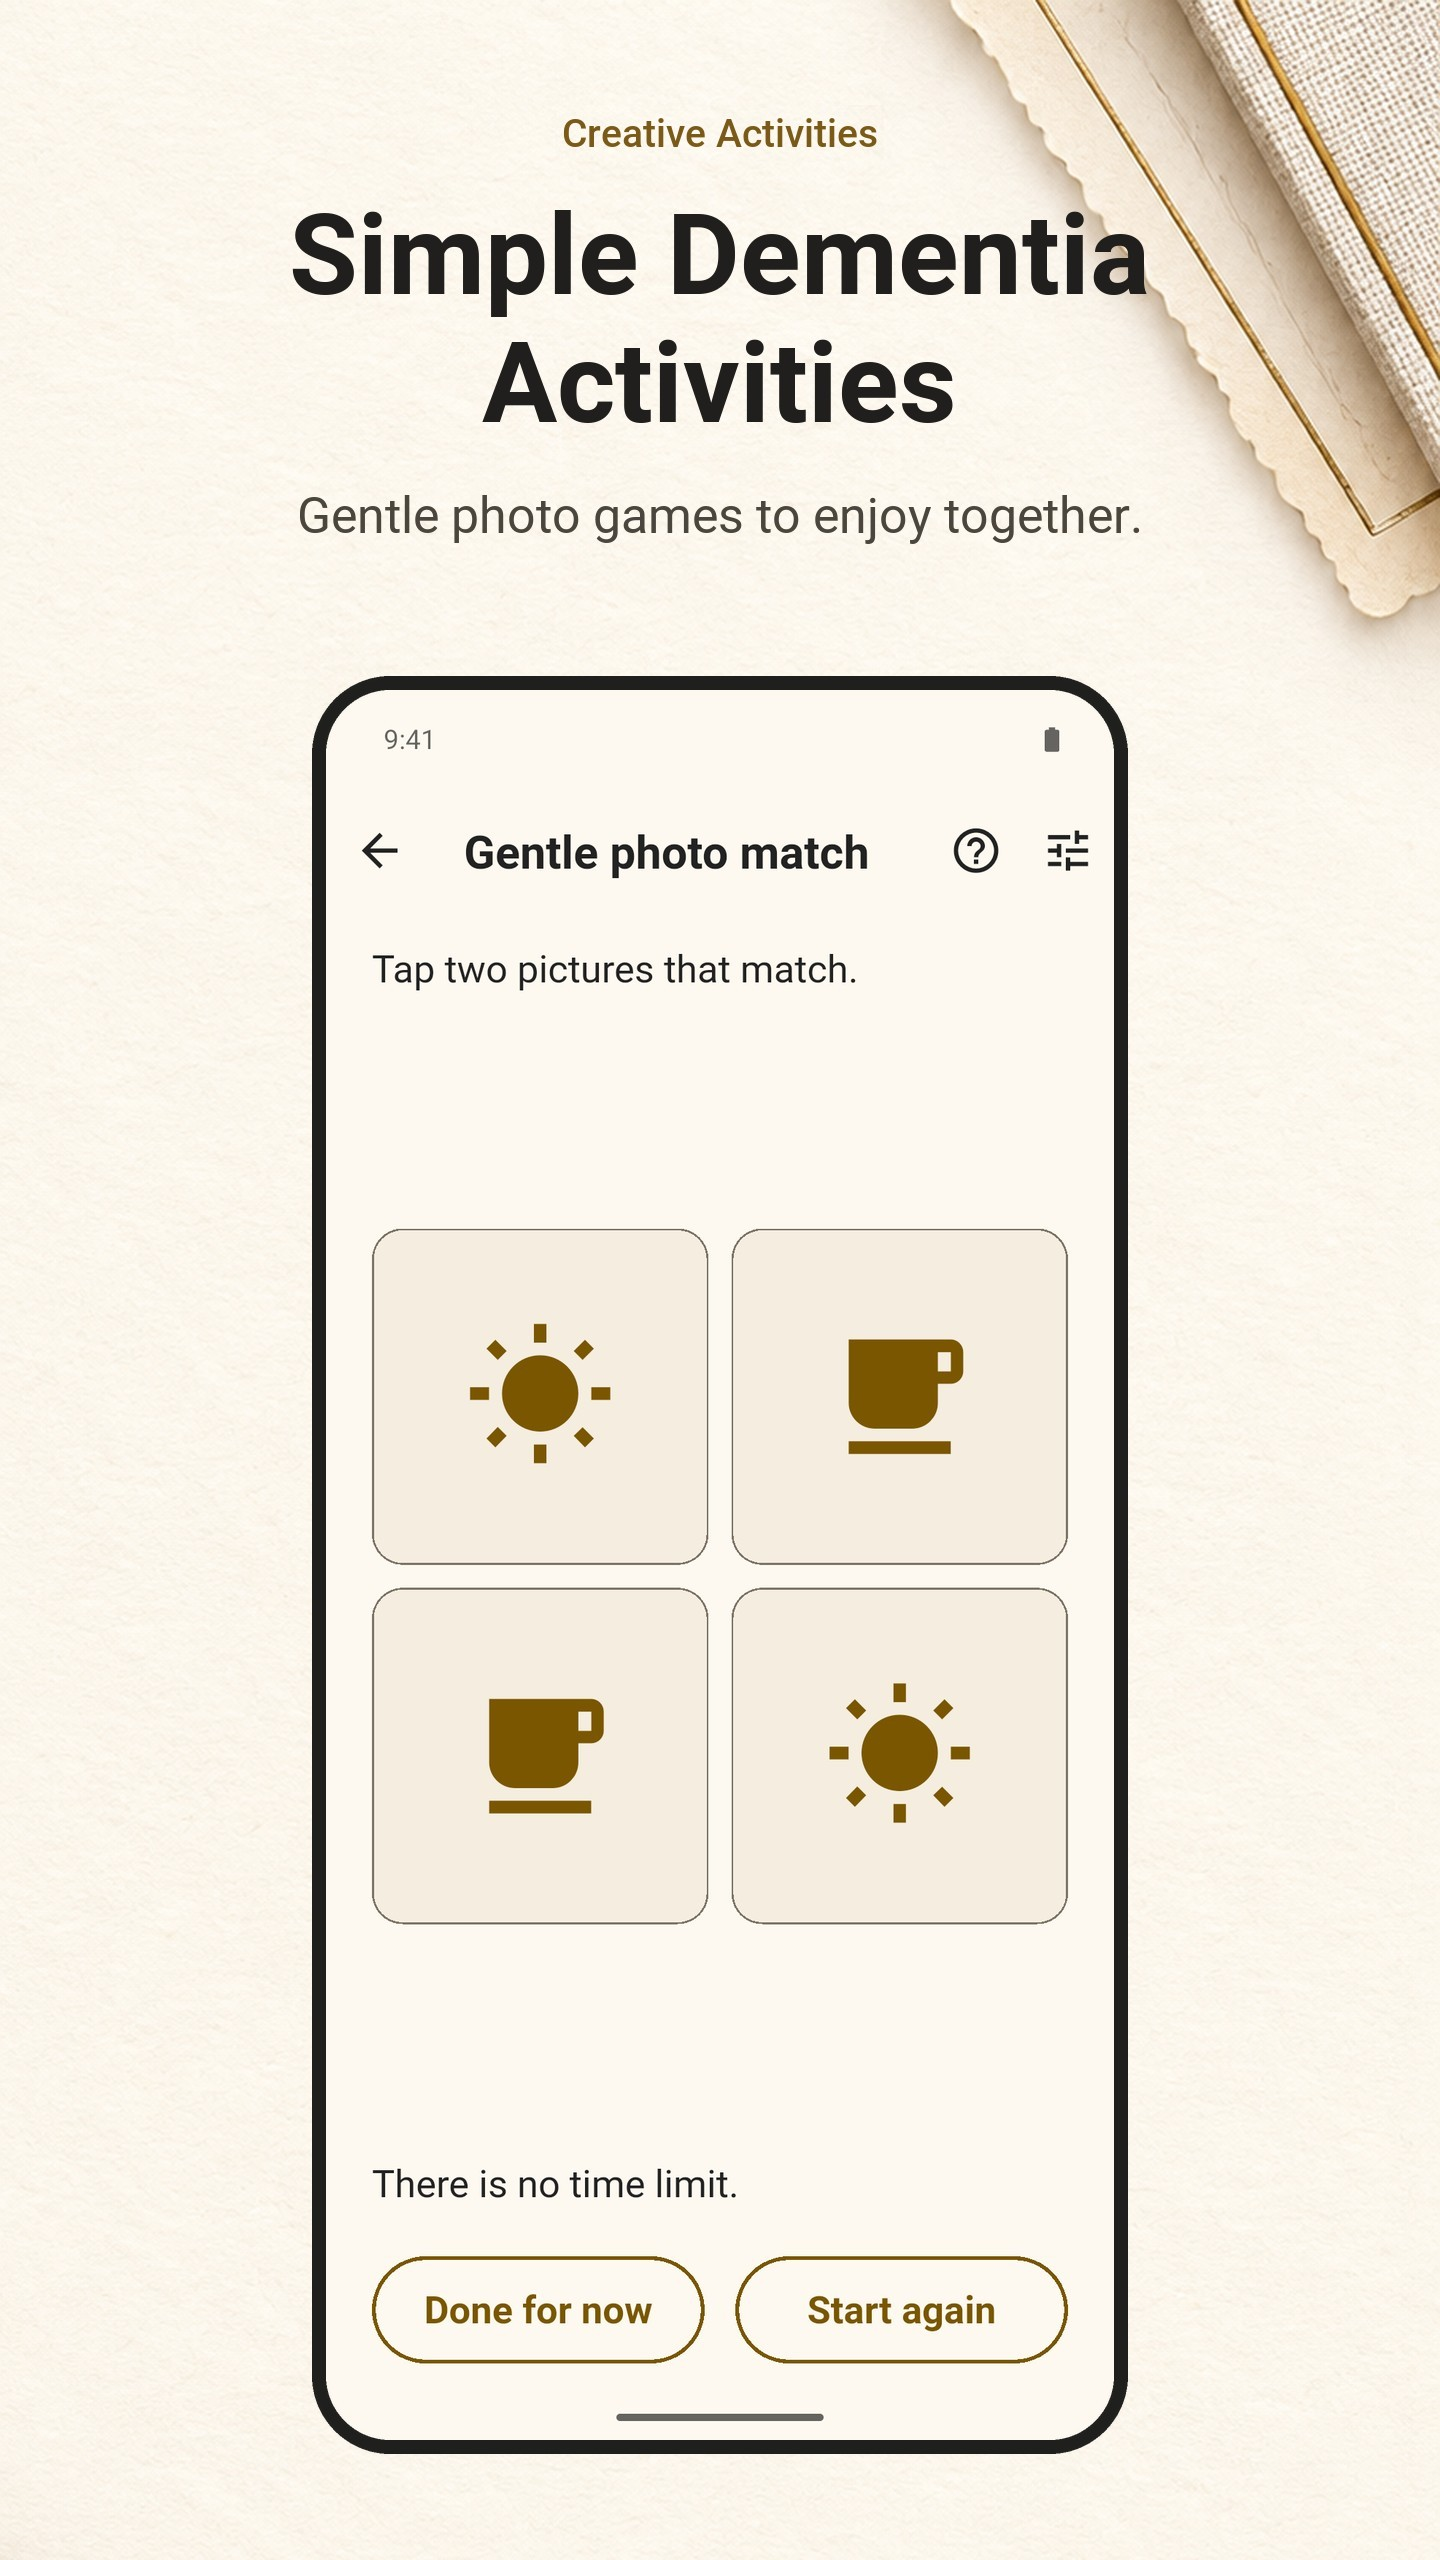
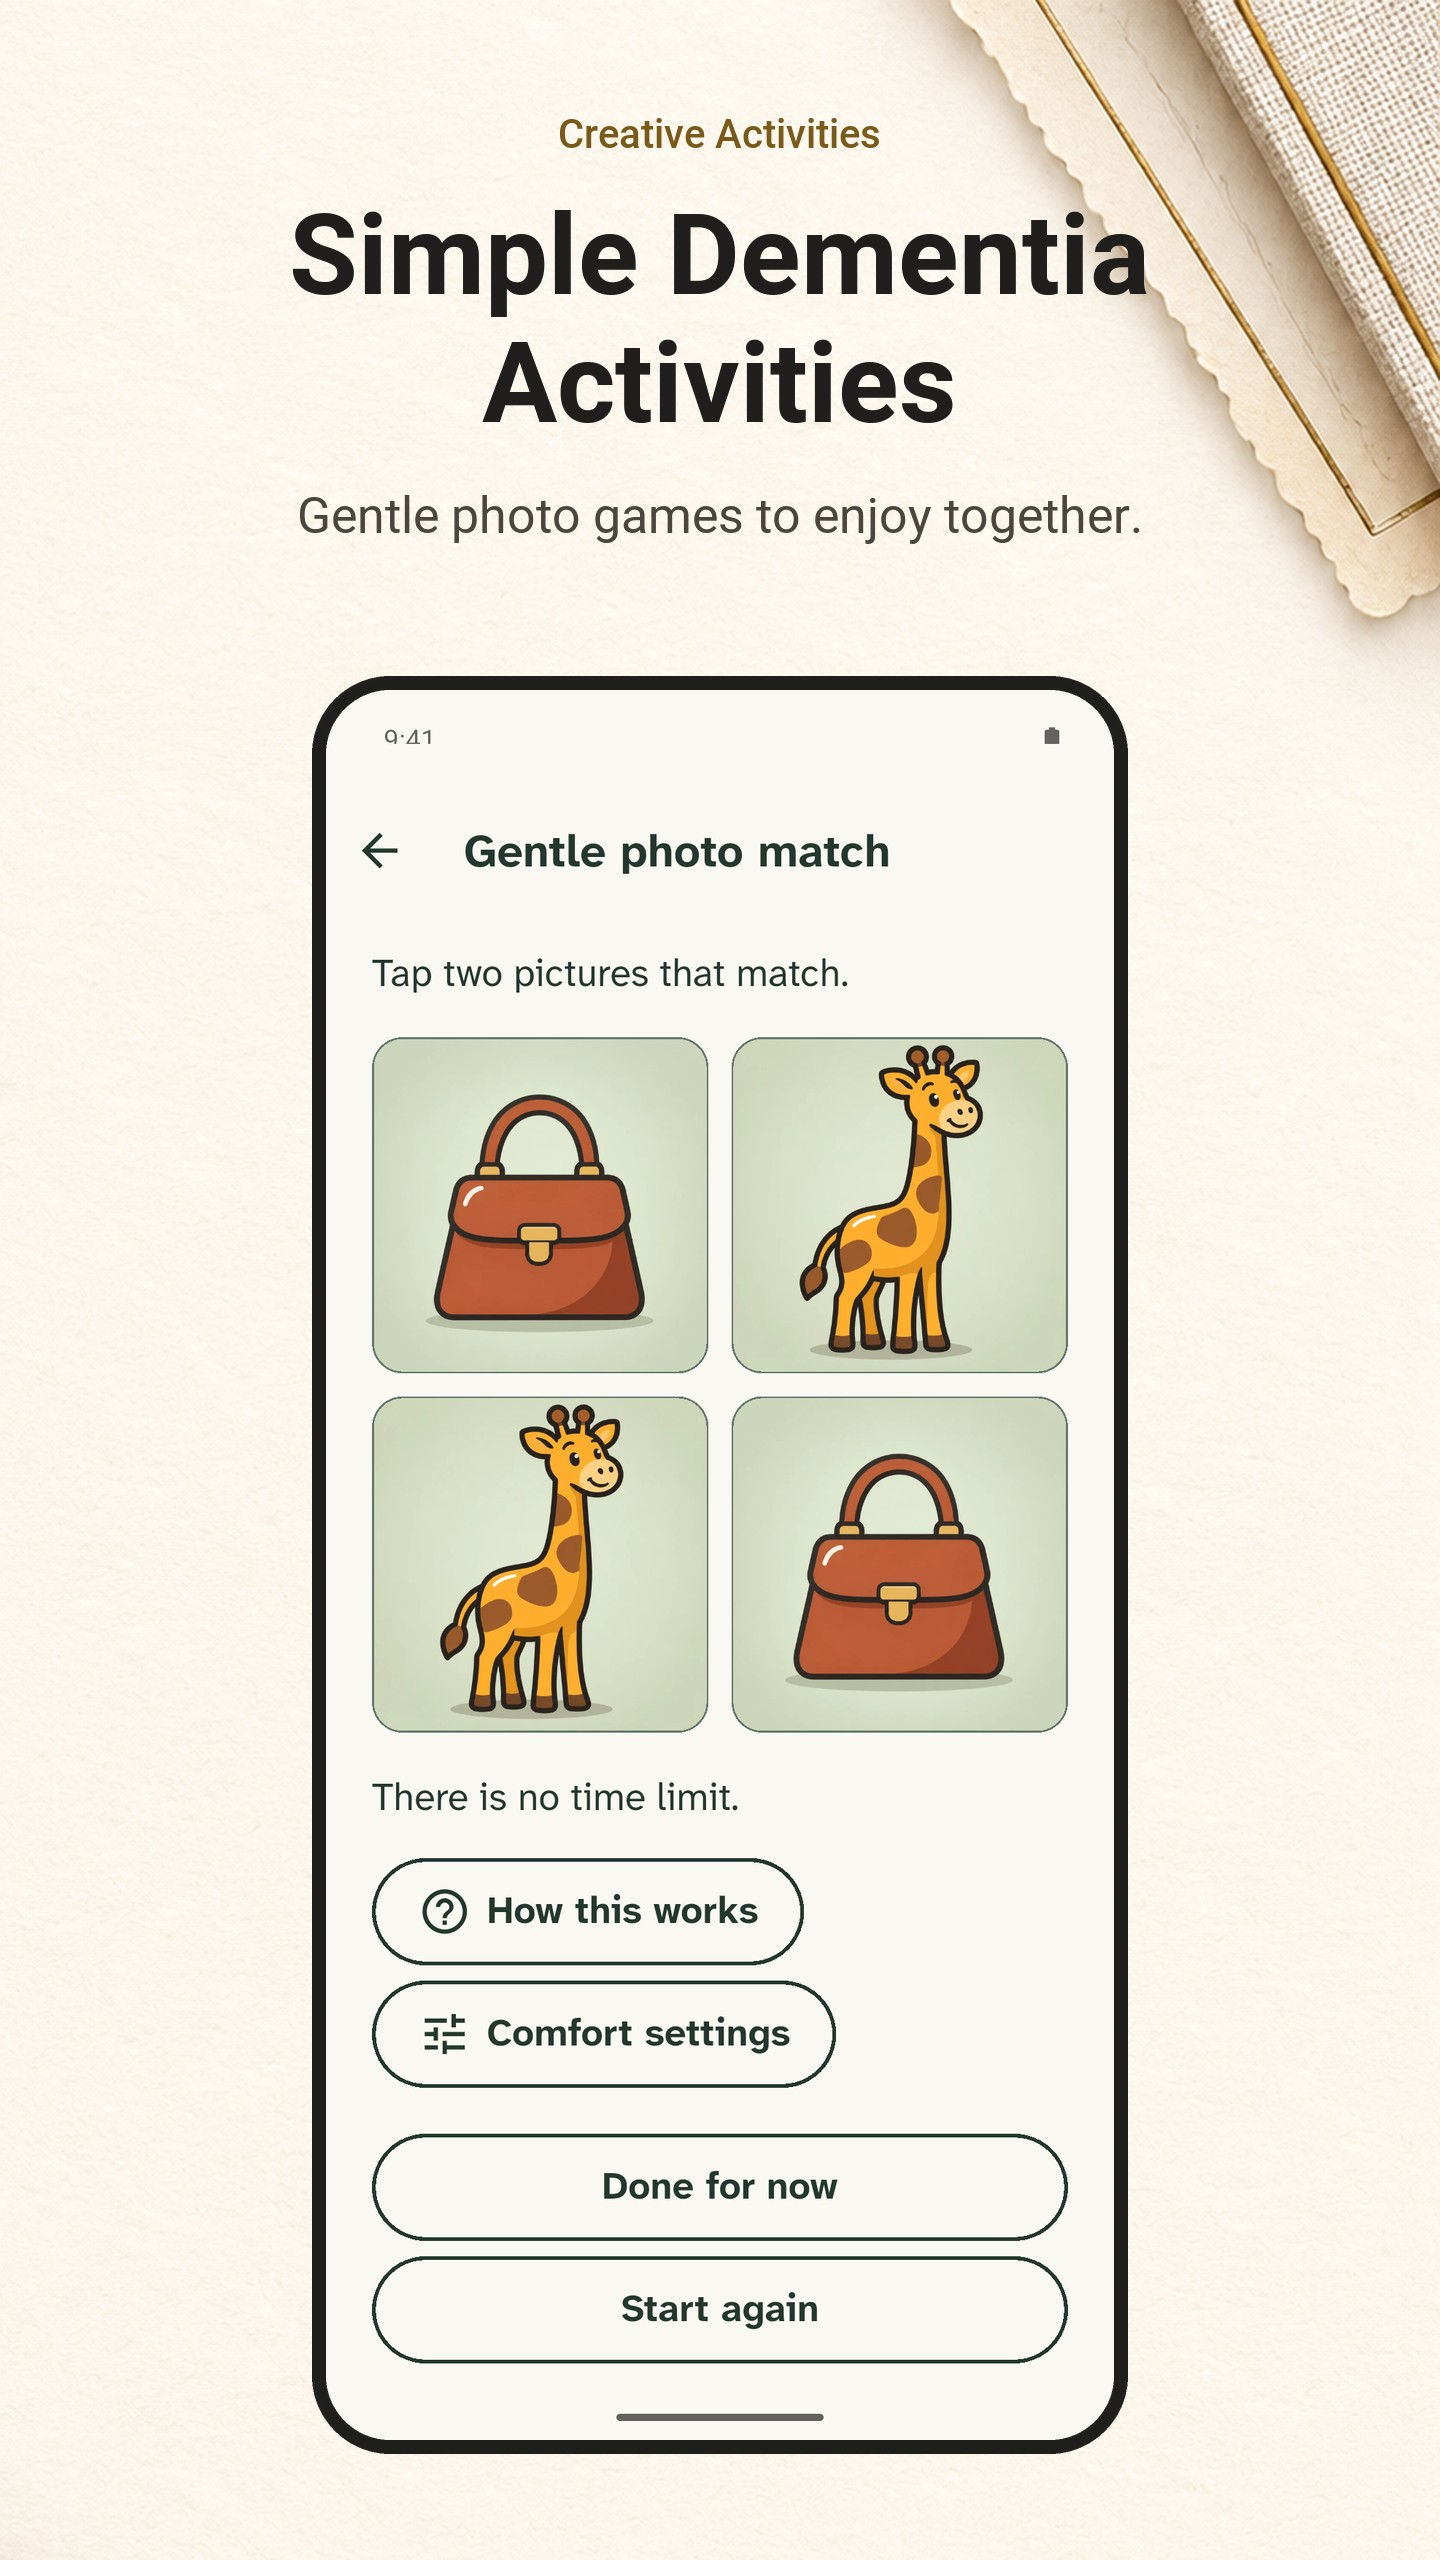
chore: retake Google Play screenshots in the new palette
Capture the six Play frames from the same source as the iOS sets on a
Pixel 7 emulator (Android 16) and recompose them. The app no longer ships
Roboto, so compose_play_screens.py takes --fonts (Flutter's material_fonts
has it). The manifest now records all three capture sets.

Claude-Session: https://claude.ai/code/session_01JyKFwLLPRregv73jTxnAch

diff --git a/scripts/compose_play_screens.py b/scripts/compose_play_screens.py
@@ -8,8 +8,11 @@ The capture from assets/screenshots/en-US/raw/android/NN.png is scaled to fit
 and clipped to the bezel's rounded screen. Nothing in the capture is drawn or
 edited. Frames are 1440 by 2560 pixels (9:16), within Google Play's limits.
 
-Usage: python3 scripts/compose_play_screens.py
+Usage: python3 scripts/compose_play_screens.py [--fonts DIR]
+  --fonts DIR  folder holding Roboto-{Regular,Medium,Bold}.ttf. The app no longer
+               ships Roboto; Flutter's bin/cache/artifacts/material_fonts has it.
 """
+import argparse
 import json
 from pathlib import Path
 
@@ -91,6 +94,10 @@ def compose(capture, headline, supporting):
 
 
 def main():
+    global FONTS
+    parser = argparse.ArgumentParser(description=__doc__)
+    parser.add_argument('--fonts', type=Path, default=FONTS)
+    FONTS = parser.parse_args().fonts
     frames = json.loads(METADATA.read_text())['screenshots']
     target = SHOTS / 'android'
     target.mkdir(exist_ok=True)

diff --git a/assets/screenshots/en-US/README.md b/assets/screenshots/en-US/README.md
@@ -8,7 +8,7 @@ On 2026-11-13 the small label above each headline changed from "Golden Moments" 
 
 ## Current captures
 
-The iPhone and iPad captures were retaken on 2026-11-13 from `c6e8e7d`, the 1.10.0 source with the Creative Activities palette (ink, canvas, sage, sun) and Atkinson Hyperlegible Next type. The Google Play frames in `android/` still come from `b9e681c` and show the previous palette; retake them before they are used again. Both iOS sets were taken on the iPhone 17 Pro Max and iPad Pro 13-inch (M5) simulators running iOS 26.5, with `scripts/capture_store_screens.sh`. The iPad status bar shows the capture date next to 9:41. That script runs `integration_test/store_screens_test.dart`, which drives the real app to each frame and pauses while the screen is saved.
+The iPhone and iPad captures were retaken on 2026-11-13 from `a53cc0e`, the 1.10.0 source with the Creative Activities palette (ink, canvas, sage, sun) and Atkinson Hyperlegible Next type. The Google Play frames in `android/` were retaken the same day from the same source on a Pixel 7 emulator (Android 16). Both iOS sets were taken on the iPhone 17 Pro Max and iPad Pro 13-inch (M5) simulators running iOS 26.5, with `scripts/capture_store_screens.sh`. The iPad status bar shows the capture date next to 9:41. That script runs `integration_test/store_screens_test.dart`, which drives the real app to each frame and pauses while the screen is saved.
 
 - **Status bar:** cleared, then set to 9:41 with `xcrun simctl status_bar`. Clearing first matters: a stale override once left a charging battery and "no service" dots.
 - **Debug banner:** hidden for capture only; a release build never shows it.
@@ -23,9 +23,9 @@ The iPhone and iPad captures were retaken on 2026-11-13 from `c6e8e7d`, the 1.10
 
 `android/` holds the six Google Play phone frames, with the same headlines and supporting text as the App Store set. They were captured on a Pixel 7 emulator (Android 16) with `scripts/capture_play_screens.sh`, which runs the same `integration_test/store_screens_test.dart` and saves each screen with `adb exec-out screencap`. The status bar is set to 9:41 with System UI demo mode.
 
-`scripts/compose_play_screens.py` builds each frame from the generated paper backdrop, the shipped Roboto type and a plain dark bezel, then places the unchanged capture inside it. The App Store frames are 2.17:1, longer than Google Play's 2:1 limit, and show an iPhone, so they are not reused for Play. The native captures are in `originals/android/`.
+`scripts/compose_play_screens.py --fonts <dir>` builds each frame from the generated paper backdrop, Roboto type (the app no longer ships it; Flutter's `bin/cache/artifacts/material_fonts` has it) and a plain dark bezel, then places the unchanged capture inside it. The App Store frames are 2.17:1, longer than Google Play's 2:1 limit, and show an iPhone, so they are not reused for Play. The native captures are in `originals/android/`.
 
-These frames show 1.4.0. The live Android build is 1.2.0, so they must not be published on Google Play before an Android 1.4.0 build is released with them.
+These frames show the 1.10.0 source. Android 1.10.0 (14) was sent for Play production review on 2026-11-13 with the previous frames; replacing them in the listing is a separate, approved upload.
 
 ## What each frame shows
 
